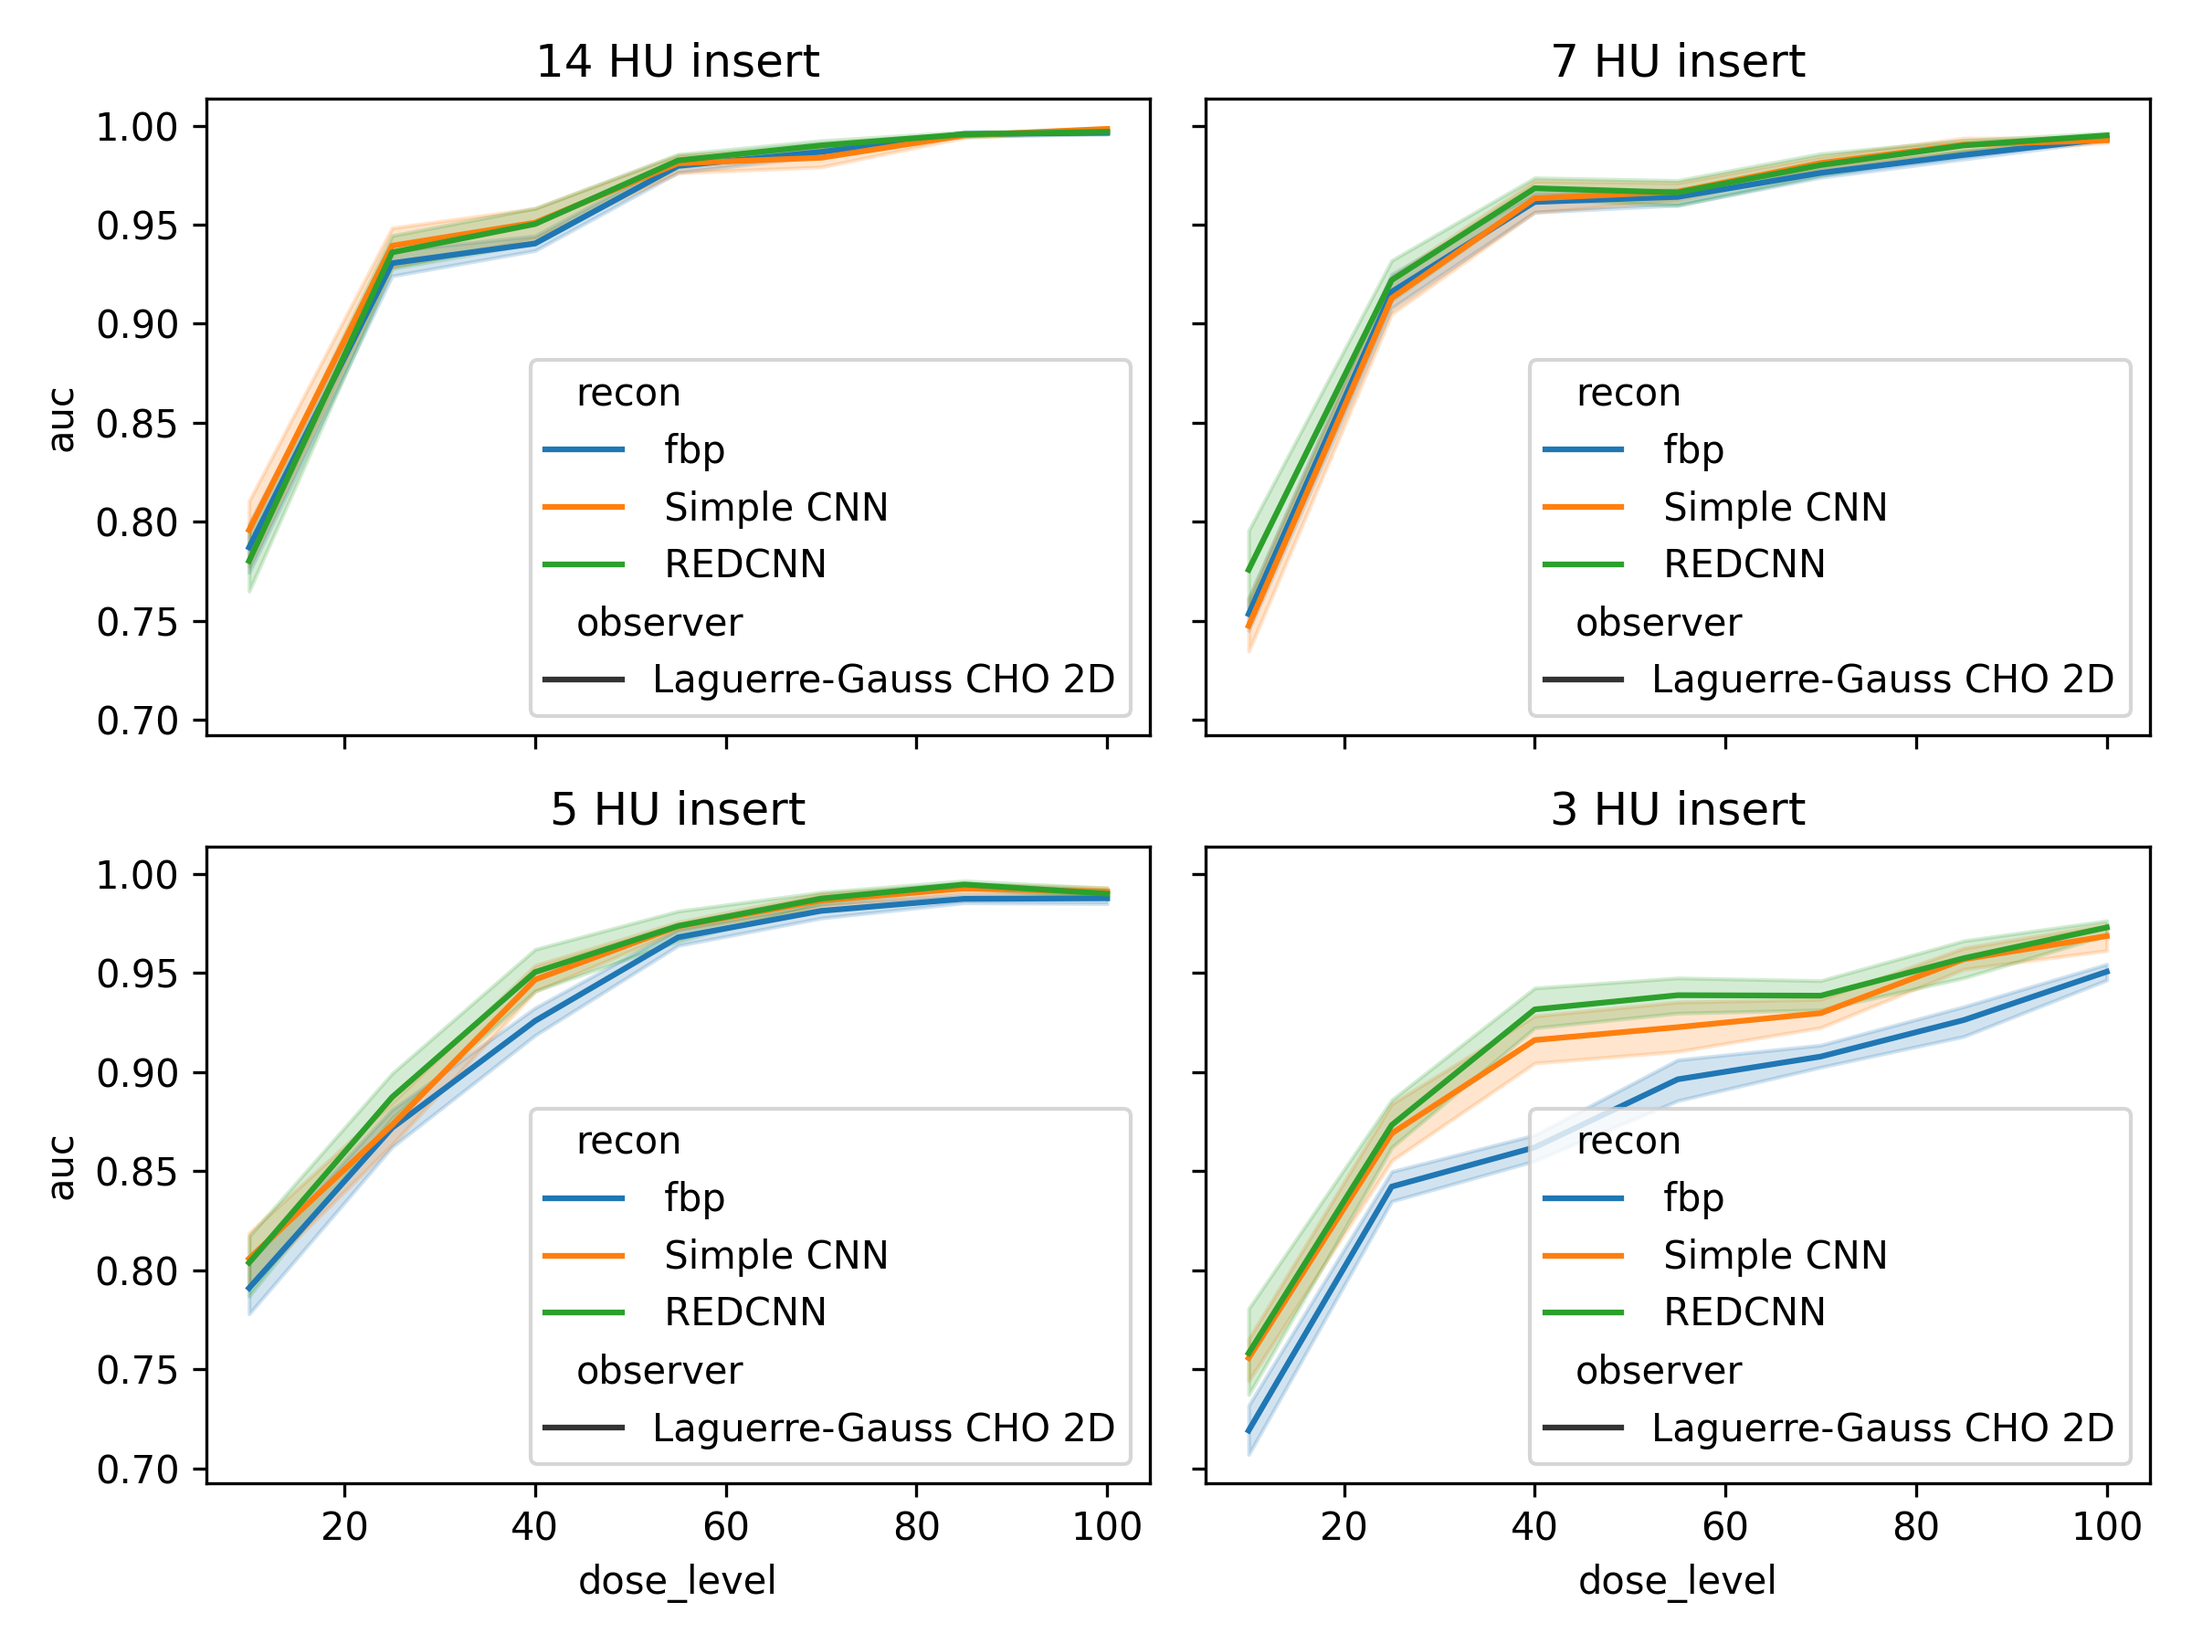
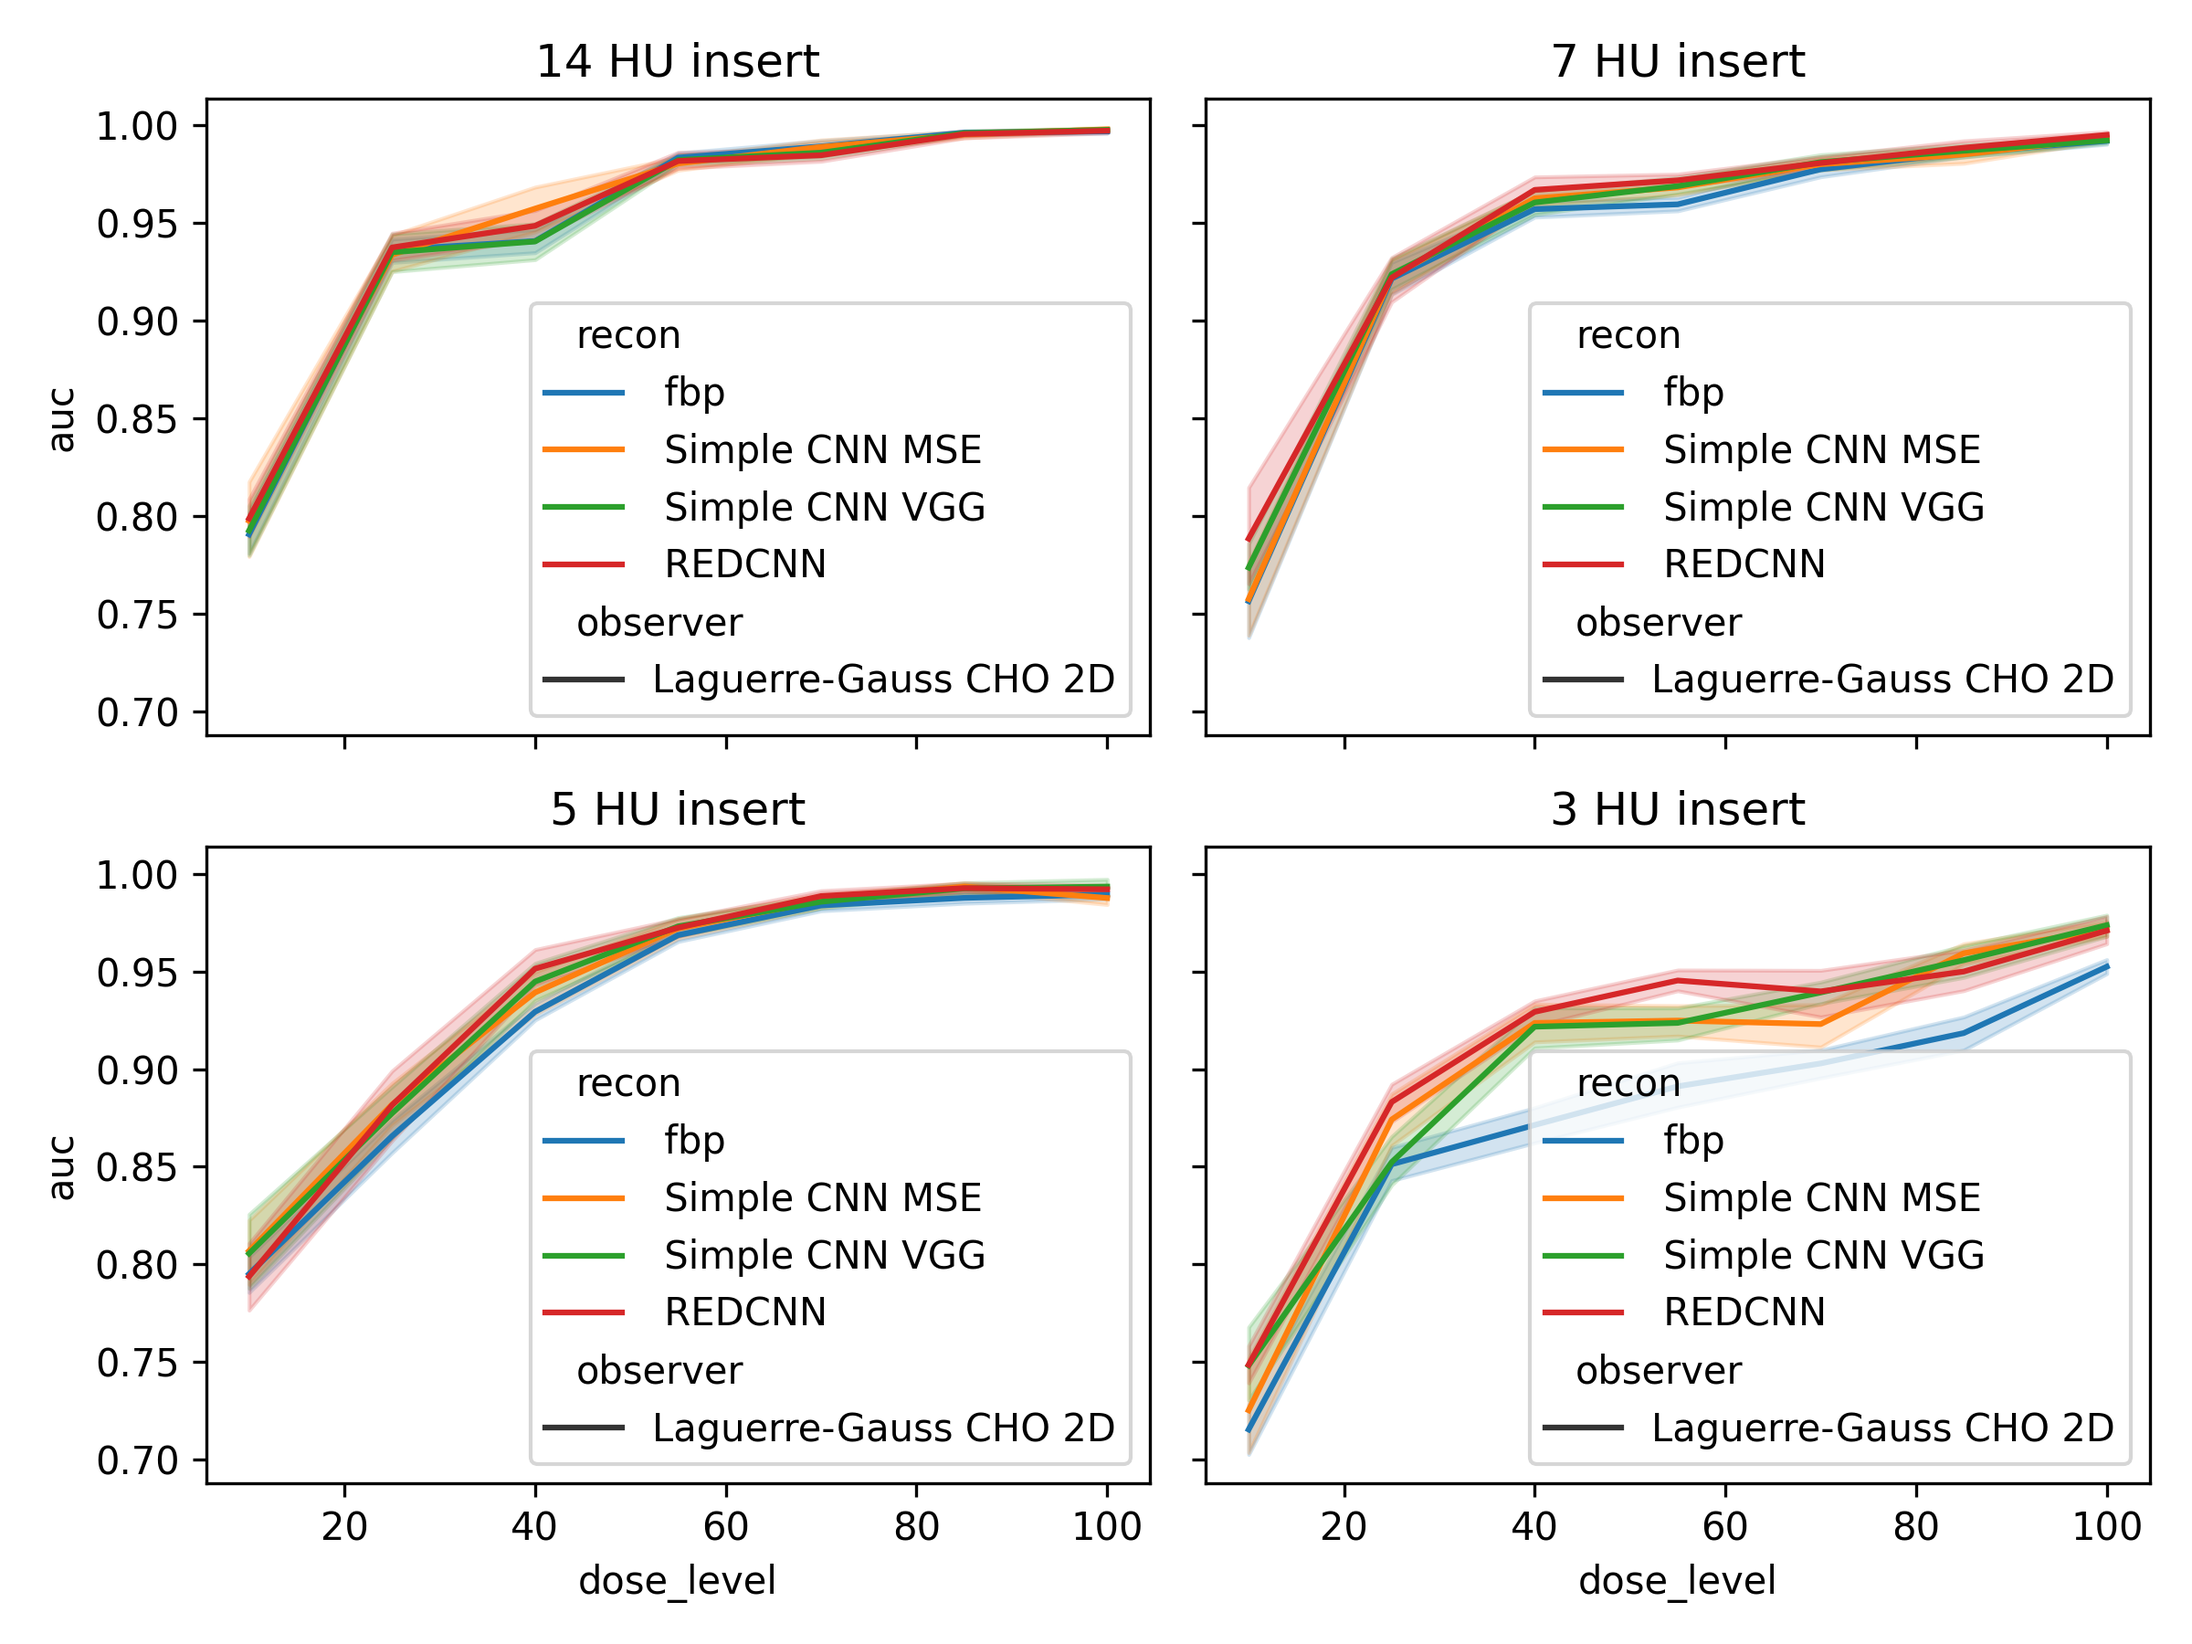
added vgg results

diff --git a/process_CCT189.py b/process_CCT189.py
@@ -42,12 +42,12 @@ def denoise(input_dir, output_dir=None, model=None, name=None, offset=1000, batc
 
 model = simple_cnn_denoiser
 datasets = [ 
-            # {
-            # 'intput_dir': data_dir / 'CCT189' / 'large_dataset' / 'fbp',
-            # 'output_dir': data_dir / 'CCT189' / 'large_dataset' / 'fbp_denoised_mse',
-            # 'model': simple_cnn_denoiser,
-            # 'name': 'CCT189 simple CNN'
-            # }, 
+            {
+            'intput_dir': data_dir / 'CCT189' / 'large_dataset' / 'fbp',
+            'output_dir': data_dir / 'CCT189' / 'large_dataset' / 'fbp_denoised_mse',
+            'model': simple_cnn_denoiser,
+            'name': 'CCT189 simple CNN'
+            }, 
             {
             'input_dir': data_dir / 'CCT189' / 'large_dataset' / 'fbp',
             'output_dir': data_dir / 'CCT189' / 'large_dataset' / 'fbp_denoised_vgg',

diff --git a/plot_results.py b/plot_results.py
@@ -3,7 +3,7 @@ import seaborn as sns
 import matplotlib.pyplot as plt
 import pandas as pd
 
-res = pd.read_csv('lcd_results.csv')
+res = pd.read_csv('results_measure.csv')
 
 sns.lineplot(data=res, x='dose_level', y='auc', hue='recon', style='observer')
 
